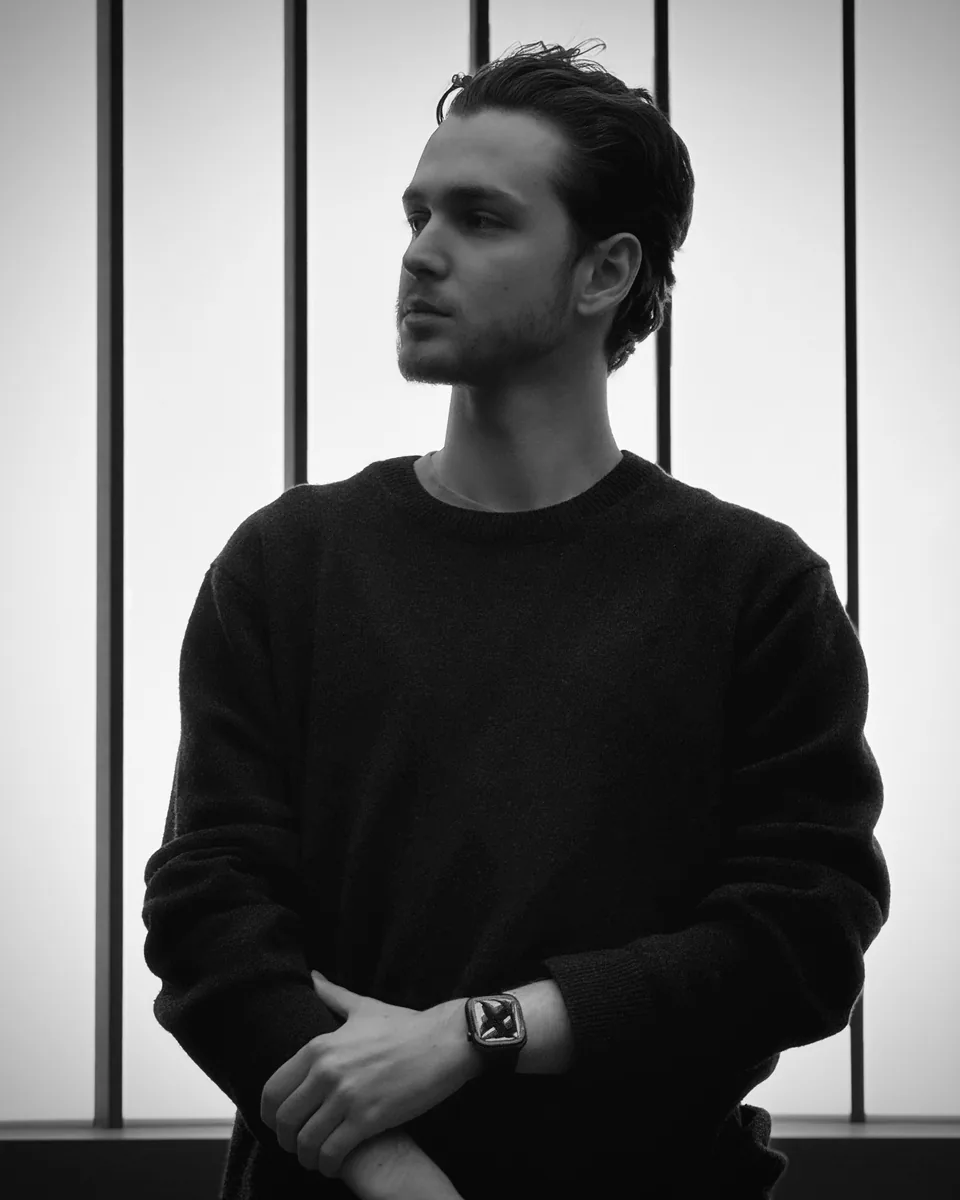
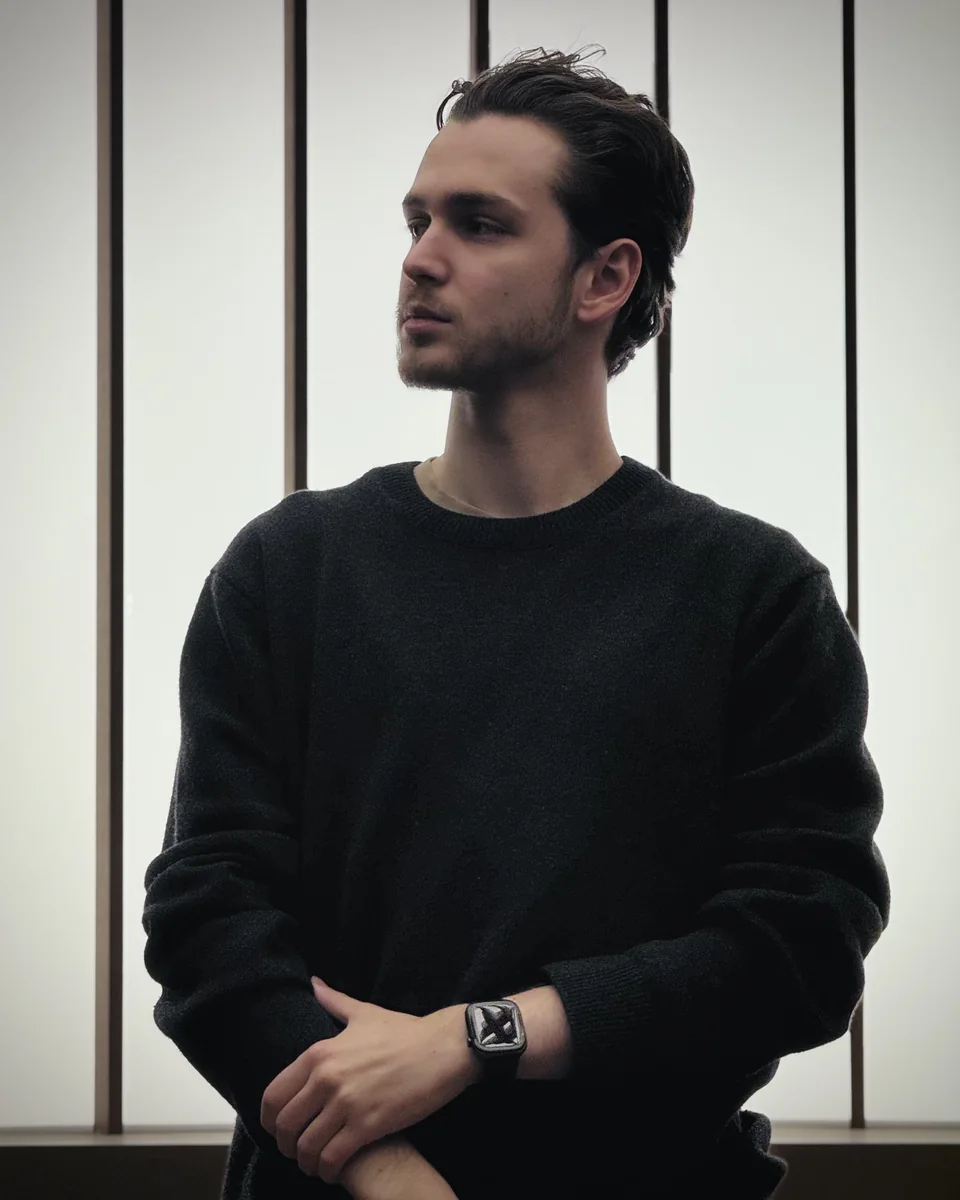
Убран старый блок кейсов, кнопка «Создать новую историю», новое фото, ровнее отступы и светлые зоны
Claude-Session: https://claude.ai/code/session_01AMr5Mjxm6He7vfQReetk6z

diff --git a/index.html b/index.html
@@ -24,7 +24,7 @@
 <link rel="apple-touch-icon" href="assets/img/apple-touch-icon.png">
 <meta name="theme-color" content="#0B1324">
 <link rel="icon" href="assets/img/favicon.svg" type="image/svg+xml">
-<link rel="stylesheet" href="assets/style.css?v=12">
+<link rel="stylesheet" href="assets/style.css?v=14">
 <script>try{if(/[?&]font=2/.test(location.search)){document.documentElement.classList.add("font-v2");var l=document.createElement("link");l.rel="stylesheet";l.href="assets/fonts-v2.css?v=1";document.head.appendChild(l)}}catch(e){}</script>
 <script type="application/ld+json">
 {"@context":"https://schema.org","@graph":[{"@type":"WebSite","@id":"https://emberg.consulting/#website","url":"https://emberg.consulting/","name":"Эмберг.Консалтинг","alternateName":"emberg.consulting","inLanguage":"ru-RU","publisher":{"@id":"https://emberg.consulting/#org"}},{"@type":"WebPage","@id":"https://emberg.consulting/#webpage","url":"https://emberg.consulting/","name":"Построение отдела продаж для малого и среднего бизнеса","isPartOf":{"@id":"https://emberg.consulting/#website"},"about":{"@id":"https://emberg.consulting/#org"},"inLanguage":"ru-RU","dateModified":"2026-10-20"},{"@type":"ProfessionalService","@id":"https://emberg.consulting/#org","name":"Эмберг.Консалтинг","alternateName":"emberg.consulting","legalName":"ИП Манасарян Эмберг Грантович","taxID":"774344096686","description":"Консалтинг по построению отделов продаж для малого и среднего бизнеса: разбор отдела продаж, дорожная карта, регламенты, скрипты, CRM и управление по цифрам","url":"https://emberg.consulting/","logo":"https://emberg.consulting/assets/img/logo.png","image":"https://emberg.consulting/assets/img/og.jpg","email":"emberg.work@mail.ru","founder":{"@id":"https://emberg.consulting/#person"},"areaServed":"RU","priceRange":"9 000-90 000 ₽","knowsAbout":["построение отдела продаж","скрипты продаж","регламенты отдела продаж","внедрение CRM","воронка продаж","мотивация менеджеров по продажам","найм менеджеров по продажам","управление отделом продаж"],"contactPoint":{"@type":"ContactPoint","contactType":"sales","url":"https://t.me/emberg_consulting","email":"emberg.work@mail.ru","availableLanguage":"ru"},"sameAs":["https://t.me/emberg_consulting","https://instagram.com/emberg_consulting"],"hasOfferCatalog":{"@type":"OfferCatalog","name":"Услуги по построению отдела продаж","itemListElement":[{"@type":"Offer","name":"Разбор отдела продаж","description":"Встреча 1,5 часа с Эмбергом Манасаряном: точка А, где теряются деньги, дорожная карта на квартал. Стоимость засчитывается в первую оплату при продолжении работы","price":9000,"priceCurrency":"RUB","url":"https://emberg.consulting/#services","availability":"https://schema.org/InStock","itemOffered":{"@type":"Service","@id":"https://emberg.consulting/#service-audit","name":"Разбор отдела продаж","serviceType":"Аудит отдела продаж","provider":{"@id":"https://emberg.consulting/#org"}}},{"@type":"Offer","name":"Построение отдела продаж своей командой","description":"Записанные лекции и персональный трекер, ваша команда собирает инструменты по методике","priceCurrency":"RUB","price":20000,"priceSpecification":{"@type":"UnitPriceSpecification","price":20000,"priceCurrency":"RUB","unitText":"неделя","referenceQuantity":{"@type":"QuantitativeValue","value":1,"unitCode":"WEE"}},"url":"https://emberg.consulting/#services","availability":"https://schema.org/InStock","itemOffered":{"@type":"Service","name":"Построение отдела продаж своей командой","serviceType":"Построение отдела продаж","provider":{"@id":"https://emberg.consulting/#org"}}},{"@type":"Offer","name":"Построение отдела продаж нашей командой","description":"Методист и профильные специалисты делают инструменты за вас: CRM, скрипты, регламенты, тренинги","priceCurrency":"RUB","price":40000,"priceSpecification":{"@type":"UnitPriceSpecification","price":40000,"priceCurrency":"RUB","unitText":"неделя","referenceQuantity":{"@type":"QuantitativeValue","value":1,"unitCode":"WEE"}},"url":"https://emberg.consulting/#services","availability":"https://schema.org/InStock","itemOffered":{"@type":"Service","name":"Построение отдела продаж нашей командой","serviceType":"Построение отдела продаж под ключ","provider":{"@id":"https://emberg.consulting/#org"}}},{"@type":"Offer","name":"Специальный проект","description":"Эмберг лично ведёт проект и команду, 1 проект одновременно","priceCurrency":"RUB","price":90000,"priceSpecification":{"@type":"UnitPriceSpecification","price":90000,"priceCurrency":"RUB","unitText":"неделя","referenceQuantity":{"@type":"QuantitativeValue","value":1,"unitCode":"WEE"}},"url":"https://emberg.consulting/#services","availability":"https://schema.org/InStock","itemOffered":{"@type":"Service","name":"Специальный проект по построению отдела продаж","serviceType":"Построение отдела продаж под ключ","provider":{"@id":"https://emberg.consulting/#org"}}}]}},{"@type":"Person","@id":"https://emberg.consulting/#person","name":"Эмберг Манасарян","alternateName":"Emberg Manasarian","jobTitle":"Основатель Эмберг.Консалтинг, автор методологии","url":"https://emberg.consulting/#about","image":"https://emberg.consulting/assets/img/emberg.webp","worksFor":{"@id":"https://emberg.consulting/#org"},"knowsAbout":["построение отдела продаж","управление продажами","CRM","скрипты продаж"],"sameAs":["https://t.me/emberg_consulting","https://instagram.com/emberg_consulting"]},{"@type":"FAQPage","@id":"https://emberg.consulting/#faq","mainEntity":[{"@type":"Question","name":"Почему так дорого?","acceptedAnswer":{"@type":"Answer","text":"Сравнивать стоит не с ценой курса, а с тем, во что обходится отдел продаж без системы: заявки, за которые вы уже заплатили маркетингу, уходят без сделки, а знания уходят вместе с сильными сотрудниками. Мы продаём не документ, а ответственность за то, что инструменты будут внедрены и приняты вашей командой\n\nРиск при этом на нашей стороне: прервать проект можно в любой момент и вернуть предоплату за оставшиеся недели. А если бюджет ограничен, начните с формата «Своей командой» за 20 тыс. ₽ в неделю"}},{"@type":"Question","name":"Почему так дёшево?","acceptedAnswer":{"@type":"Answer","text":"Наша цель - научить как можно больше компаний продавать экологично: без давления на клиента, выгорания менеджеров и зависимости от одного сильного продавца. Мы верим, что малый и средний бизнес растёт быстрее, когда у него есть понятная система продаж, и хотим, чтобы она была доступна не только крупным компаниям\n\nНиже цена не за счёт качества. Методику мы отработали на десятке отделов продаж, поэтому не изобретаем инструменты с нуля под каждого клиента, а адаптируем готовые решения под ваш бизнес"}},{"@type":"Question","name":"Вы гарантируете рост выручки?","acceptedAnswer":{"@type":"Answer","text":"Нет, и честно скажем почему: на выручку влияют рынок, маркетинг и ваши решения, а мы их не контролируем. Мы гарантируем другое: дорожная карта будет внедрена целиком. Каждый инструмент вы принимаете на защите. Если инструмент не принят по нашей вине, в форматах «Нашей командой» и «Специальный проект» полностью пересобираем его за неделю бесплатно"}},{"@type":"Question","name":"Мы уже платили консультантам, и ничего не внедрилось. Чем вы отличаетесь?","acceptedAnswer":{"@type":"Answer","text":"Обычно внедрение ломается в трёх местах: инструменты пишут без участия команды, после сдачи документа подрядчик уходит, а внутри не остаётся человека, который за них отвечает. Мы собираем фактуру у менеджеров, не идём дальше, пока этап не работает, и возвращаемся после проекта проверить, что прижилось"}},{"@type":"Question","name":"Сколько занимает построение отдела продаж?","acceptedAnswer":{"@type":"Answer","text":"В среднем 1,5-3 месяца. Точный срок называем после разбора: он зависит от того, что в отделе уже работает, а что придётся строить с нуля"}},{"@type":"Question","name":"Можно ли поставить проект на паузу?","acceptedAnswer":{"@type":"Answer","text":"Да. В формате «Своей командой» можно 1 раз за проект бесплатно взять паузу до 2 недель, в формате «Нашей командой» - 2 раза. В «Специальном проекте» условия паузы обсуждаем индивидуально. На время паузы условия работы сохраняются"}},{"@type":"Question","name":"С какими нишами вы работаете и есть ли у вас опыт в моей?","acceptedAnswer":{"@type":"Answer","text":"Мы работаем с компаниями, где продажа идёт через звонок, встречу или переписку и в отделе есть хотя бы один менеджер. У нас уже есть опыт в производстве и дистрибуции, недвижимости, экспорте авто, IT, онлайн-образовании, B2B-услугах, туризме, розничной торговле и других нишах. Не берём в работу компании, где клиент выбирает только по цене, наличию и срокам\n\nЕсли вашей ниши нет в списке, это не проблема. Отдел продаж в стоматологии и на производстве устроен одинаково: заявка, квалификация, встреча, дожим, повторная продажа. Специфику вашего рынка мы собираем на разборе и в начале построения - интервьюируем вас, менеджеров и клиентов. Поэтому инструменты строятся под ваш бизнес, а не по шаблону"}},{"@type":"Question","name":"Вы приводите клиентов, звоните им, нанимаете менеджеров?","acceptedAnswer":{"@type":"Answer","text":"Нет, мы не продаём за вас: не звоним вашим клиентам, не ведём переписку и не запускаем рекламу. Мы строим систему, в которой это делает ваша команда, и отвечаем за то, что происходит после заявки. Если лидов не хватает, подключаем партнёров по маркетингу или помогаем настроить исходящие продажи силами ваших менеджеров\n\nС наймом то же самое: мы пишем профили должностей, мотивацию и воронку найма, а при необходимости подключаем рекрутера. Так новые люди приходят в готовую систему и быстрее начинают продавать"}},{"@type":"Question","name":"Что будет после окончания проекта?","acceptedAnswer":{"@type":"Answer","text":"У вас остаются регламенты, скрипты и база знаний в Notion и CRM. Они не зависят от конкретных людей. После проекта мы бесплатно возвращаемся на контрольный аудит через 1 месяц, а в форматах «Нашей командой» и «Специальный проект» - ещё и через 3 месяца. Проверяем, что работает, и при необходимости дорабатываем"}},{"@type":"Question","name":"Работаете удалённо?","acceptedAnswer":{"@type":"Answer","text":"Да, все встречи проходят в Zoom"}}]}]}
@@ -145,39 +145,8 @@
   </div>
 </section>
 
-<!-- Кейсы -->
-<section class="section" id="cases">
-  <div class="orb orb-a" style="top:10%;left:auto;right:-240px"></div>
-  <div class="container">
-    <div class="section-head reveal">
-      <h2 class="h-section">Что меняется <span class="accent">на практике</span></h2>
-    </div>
-    <div class="steps cases reveal-stagger">
-      <div class="step step-main case glass glass-hover" data-stage="case-1" tabindex="0" role="button" aria-haspopup="dialog" aria-label="Тест брали все, а платить не хотел никто - подробнее">
-        <span class="tag">LegalTech · B2B SaaS</span>
-        <div class="step-body"><h3 class="h-card">Тест брали все, а платить не хотел никто</h3><ul class="case-metrics"><li><b>2-3</b><span>B2B-контракта в неделю вместо одной продажи за всё время</span></li><li><b>7 дней</b><span>длится тест с критериями успеха вместо бессрочного пилота</span></li><li><b>10-15</b><span>ключевых клиентов на основателе, остальные - у менеджера</span></li></ul></div>
-        <span class="step-more" aria-hidden="true">Что сделали<i></i></span>
-      </div>
-      <div class="step step-main case glass glass-hover" data-stage="case-2" tabindex="0" role="button" aria-haspopup="dialog" aria-label="Больше половины заявок не доходили до звонка - подробнее">
-        <span class="tag">Онлайн-образование · B2C</span>
-        <div class="step-body"><h3 class="h-card">Больше половины заявок не доходили до звонка</h3><ul class="case-metrics"><li><b>46%</b><span>заявок доходили до встречи продажи на старте</span></li><li><b>3 → 2+1</b><span>совместителей заменили 2 менеджера на полный день и чатер</span></li><li><b>1-2 дня</b><span>от встречи до оплаты без единого касания дожима</span></li></ul></div>
-        <span class="step-more" aria-hidden="true">Что сделали<i></i></span>
-      </div>
-      <div class="step step-main case glass glass-hover" data-stage="case-3" tabindex="0" role="button" aria-haspopup="dialog" aria-label="Пришли за активными продажами, а главный риск оказался в другом - подробнее">
-        <span class="tag">Промышленное снабжение · B2B</span>
-        <div class="step-body"><h3 class="h-card">Пришли за активными продажами, а главный риск оказался в другом</h3><ul class="case-metrics"><li><b>60%</b><span>выручки давал один клиент</span></li><li><b>74%</b><span>прироста за год пришлось на него же</span></li><li><b>33 этапа</b><span>цикла сделки оцифровали с точками потерь</span></li></ul></div>
-        <span class="step-more" aria-hidden="true">Что сделали<i></i></span>
-      </div>
-    </div>
-    <template id="stage-case-1"><span class="tag">LegalTech · B2B SaaS</span><h3 class="h-card">Тест брали все, а платить не хотел никто</h3><p class="stage-lbl">Что сделали</p><ul><li>Нашли, где застревают деньги: до теста доходили почти все, до оплаты - почти никто</li><li>Собрали модель продаж и 3 воронки: новые клиенты, продления, отказники</li><li>Пересобрали тест: 7 дней, критерии успеха, созвон на 3-й день и итоговая встреча с тем, кто принимает решение. Цену называем до теста</li><li>Дату итоговой встречи фиксируем прямо на демо - клиент начал так делать в тот же день</li><li>Написали скрипты: секретарь, первый звонок, запуск теста, финальная встреча, возражения</li><li>Выстроили работу с лидами: исходящий трафик, крупные аккаунты, партнёрская и реферальная программы</li><li>Разобрали КП и дали структуру на 2-3 страницы</li></ul><p class="stage-lbl">Ключевые инсайты</p><ul><li>Больше лидов не помогут, если тест отдаёт продукт бесплатно. Сначала чинишь переход от теста к оплате, потом увеличиваешь поток</li><li>Тест не продавал, потому что в него заходили без квалификации и без лица, принимающего решение, без цели и даты решения</li><li>CRM и онбординг сознательно отложили - автоматизировать хаос нет смысла</li></ul><p class="stage-note">Результат - со слов основателя через 2 месяца после старта. На рост повлияли и другие факторы, мы одна из причин, а не единственная</p></template>
-    <template id="stage-case-2"><span class="tag">Онлайн-образование · B2C</span><h3 class="h-card">Больше половины заявок не доходили до звонка</h3><p class="stage-lbl">Что сделали</p><ul><li>Разделили роли: менеджер продаёт только на встрече, чатер ведёт клиента от заявки до оплаты</li><li>Завели единый календарь слотов - чатер сам записывает клиента без передачи «из чата в чат»</li><li>Ввели подтверждение встречи за сутки и за час. Сначала слот, потом материалы</li><li>Сократили прогрев с трёх бесплатных уроков до одного</li><li>Собрали 3 воронки в CRM и убрали лишние поля</li><li>Перестроили мотивацию: фикс за дисциплину и процент за сделки, у чатера - бонус за доведённых до встречи и оплаты</li><li>Провели тайные покупки у 3 конкурентов и собрали структуру встречи, скрипты дожима и возврата</li></ul><p class="stage-lbl">Ключевые инсайты</p><ul><li>Продавец на звонке не должен догонять клиента в переписке. Пока менеджеры отвечали сутками, заявки остывали до встречи</li><li>Квалификация - это не фильтр, а разгрузка. Чатер перестал звать на встречи тех, кто не купит, и у менеджеров освободилось время</li><li>Онбординг, отложенный как «не горит», стоил 2 месяцев на менеджера, который уволился после обучения</li></ul></template>
-    <template id="stage-case-3"><span class="tag">Промышленное снабжение · B2B</span><h3 class="h-card">Пришли за активными продажами, а главный риск оказался в другом</h3><p class="stage-lbl">Что сделали</p><ul><li>Разобрали выгрузки из 1С за 2,5 года и нашли настоящий диагноз - концентрацию выручки</li><li>Поменяли порядок работ: сначала защита ключевых клиентов и маржи, потом активные продажи</li><li>Оцифровали цикл сделки по входящим заявкам, тендерам и прямым продажам</li><li>Спроектировали структуру из 4 блоков: клиентский сервис, активные продажи, тендеры, снабжение</li><li>Описали 8 профилей должностей, 4 воронки и бизнес-процессы с нормативами сроков</li><li>Внедрили ежедневный план-факт - он прижился и работает без нас</li><li>После паузы на внедрение компания вернулась на следующий этап - запуск активных продаж</li></ul><p class="stage-lbl">Ключевые инсайты</p><ul><li>Клиент приходит с диагнозом «нам нужны продажники», а данные показывают другой. Ценность не в списке задач, а в правильном порядке</li><li>Когда почти каждая заявка уникальна, узкое место не в навыке продажи, а в просчёте. Охотник в такой системе утонет в расчётах</li><li>Главная метрика проекта - доля крупнейшего клиента: снизить её с 60% до 40% и сохранить маржу</li></ul></template>
-    <div class="cta-row reveal"><a class="btn btn-primary" data-cta="C18" href="https://t.me/emberg_consulting">Разобрать наш отдел продаж <span class="arr">→</span></a></div>
-  </div>
-</section>
-
 <!-- Истории проектов -->
-<section class="section" id="stories">
+<section class="section section-light" id="stories">
   <div class="container">
     <div class="section-head reveal">
       <h2 class="h-section">Каждый проект - <span class="accent">новая история</span></h2>
@@ -187,6 +156,7 @@
       <button type="button" class="story-row glass" data-story="2" aria-haspopup="dialog"><span class="story-num">02</span><span class="story-txt"><span class="story-niche">Онлайн-школа</span><span class="story-title">Как проводить меньше встреч и закрывать больше продаж</span></span><span class="story-arr" aria-hidden="true"></span></button>
       <button type="button" class="story-row glass" data-story="3" aria-haspopup="dialog"><span class="story-num">03</span><span class="story-txt"><span class="story-niche">Промышленное снабжение</span><span class="story-title">Проблема не в МОПах: почему 3 продажника не прижились</span></span><span class="story-arr" aria-hidden="true"></span></button>
     </div>
+    <div class="cta-row reveal"><a class="btn btn-primary" data-cta="C18" href="https://t.me/emberg_consulting">Создать новую историю <span class="arr">→</span></a></div>
     <template id="story-1"><p class="story-eyebrow">Кейс 01 · Сервис для юристов</p><h3 class="story-h">Быстрый старт: от 0 до 3 B2B-контрактов в неделю</h3><dl class="story-facts"><div><dt>Кто</dt><dd>Стартап, ИИ-система для юристов, B2B-подписка</dd></div><div><dt>Менеджеров</dt><dd>0, продаёт сам основатель</dd></div><div><dt>Выручка</dt><dd>0 ₽ / год</dd></div><div><dt>Срок</dt><dd>7 недель</dd></div></dl><div class="story-task"><p class="stage-lbl">Задача</p><p>Превратить бесплатный тест в оплату и снять продажи с основателя</p></div><div class="story-cols"><div class="story-col"><p class="stage-lbl">Было</p><ul><li>Одна продажа за всё время</li><li>До бесплатного теста доходили почти все, до оплаты - почти никто</li><li>95% продаж на основателе, учёт сделок - папки со скриншотами</li></ul></div><div class="story-col"><p class="stage-lbl">Сделали</p><ul><li>Пересобрали тестовый период: цель теста, критерии успеха, промежуточный созвон и итоговая встреча с тем, кто принимает решение</li><li>Ввели правило фиксировать дату итоговой встречи ещё на демо - основатель применил его в тот же день</li><li>Собрали 3 воронки (новые клиенты, продления, отказники) и скрипты на каждый этап сделки</li><li>Выстроили систему работы с лидами из 7 каналов, включая исходящий трафик и партнёрскую программу</li><li>Провели аудит КП и дали новую структуру на 2-3 страницы</li></ul></div><div class="story-col story-col-got"><p class="stage-lbl">Стало</p><ul><li>Тест заканчивается встречей с решением, а не тишиной: несколько недель подряд основатель идёт на итоговые встречи с хорошей обратной связью</li><li>Продажи разделены: основатель ведёт 10-15 крупных клиентов, средних - менеджер</li><li>Тёплым клиентам тест запускают сразу через чат, без ожидания отдельной встречи</li><li>Сделки ведутся в таблице по этапам со следующим шагом и контактным лицом вместо скриншотов</li><li>КП собирается с разбивкой цены, блоком безопасности и планом внедрения</li></ul></div></div></template>
     <template id="story-2"><p class="story-eyebrow">Кейс 02 · Онлайн-школа</p><h3 class="story-h">Как проводить меньше встреч и закрывать больше продаж</h3><dl class="story-facts"><div><dt>Кто</dt><dd>Онлайн-образование, B2C</dd></div><div><dt>Менеджеров</dt><dd>3 менеджера + 1 менеджер на переписке</dd></div><div><dt>Выручка</dt><dd>45 млн ₽ / год</dd></div><div><dt>Срок</dt><dd>6 недель: неделя диагностики и 5 недель внедрения</dd></div></dl><div class="story-task"><p class="stage-lbl">Задача</p><p>Довести до звонка больше заявок и сделать так, чтобы отдел работал без микроконтроля руководителя</p></div><div class="story-cols"><div class="story-col"><p class="stage-lbl">Было</p><ul><li>До звонка доходило 46% заявок: в июне из 138 лидов - 64 звонка</li><li>Все менеджеры совмещали продажи с основной работой, ближайший слот для клиента - через 2-3 дня</li><li>В переписке менеджеры отвечали до суток, дожимал клиентов в основном руководитель</li></ul></div><div class="story-col"><p class="stage-lbl">Сделали</p><ul><li>Разделили роли: менеджер - только звонок, чатер - клиент от заявки до оплаты, включая дожим</li><li>Завели единый календарь слотов и своими силами перенастроили AmoCRM клиента: 3 воронки, правила переходов, поля карточки, автоматизации</li><li>Ввели подтверждение звонка за сутки и за час, сократили прогрев с трёх уроков до одного</li><li>Пересобрали мотивацию: менеджеру - за звонок, чатеру - бонус за доведённых до звонка и до оплаты</li><li>Провели тайные покупки у 3 конкурентов, на их основе собрали структуру звонка и скрипты дожима</li></ul></div><div class="story-col story-col-got"><p class="stage-lbl">Стало</p><ul><li>Дожим снят с руководителя: его ведёт чатер, первые клиенты после передачи оплатили через 1-2 дня без единого касания</li><li>Процент менеджера с продажи снизился с 5-9% до 3,5-4%</li><li>Чатер отсекает нецелевых до звонка - менеджеры тратят время только на тех, кто может купить</li><li>Запись на слот автоматически двигает сделку в CRM, лишние поля убраны</li></ul></div></div></template>
     <template id="story-3"><p class="story-eyebrow">Кейс 03 · Промышленное снабжение</p><h3 class="story-h">Проблема не в МОПах: почему 3 продажника не прижились</h3><dl class="story-facts"><div><dt>Кто</dt><dd>B2B-снабжение крупных заводов</dd></div><div><dt>Менеджеров</dt><dd>3 менеджера</dd></div><div><dt>Выручка</dt><dd>183 млн ₽ / год</dd></div><div><dt>Срок</dt><dd>12 недель</dd></div></dl><div class="story-task"><p class="stage-lbl">Задача</p><p>Подготовить компанию к запуску активных продаж так, чтобы новый продавец прижился</p></div><div class="story-cols"><div class="story-col"><p class="stage-lbl">Было</p><ul><li>3 попытки нанять менеджера активных продаж провалились</li><li>Заявки и КП не фиксировались, конверсия не считалась, план продаж не формировался</li><li>Сотрудники совмещали по 2-3 роли, знания о клиентах - в личной почте и папках на компьютерах</li></ul></div><div class="story-col"><p class="stage-lbl">Сделали</p><ul><li>Провели аудит: выгрузки из 1С за 2,5 года, интервью с командой, слепки рабочего дня</li><li>Оцифровали цикл сделки по входящим заявкам, тендерам и прямым продажам</li><li>Описали 8 профилей должностей, 4 воронки и 27 бизнес-процессов с нормативами сроков</li><li>Внедрили ежедневный план-факт: защитили его с командой и отработали возражения</li></ul></div><div class="story-col story-col-got"><p class="stage-lbl">Стало</p><ul><li>Собственники каждый день видят заявки и КП по каждому заводу вместо «никак»</li><li>Зафиксированы нормативы: первичный ответ на заявку - 2 рабочих часа, КП - 3 рабочих дня</li><li>6 бизнес-процессов работают в поле</li><li>Компания вернулась на следующий этап и нанимает руководителя отдела продаж, менеджера активных продаж и снабженца в готовую систему</li></ul></div></div></template>
@@ -287,7 +257,7 @@
   <div class="orb orb-b" style="left:auto;right:-200px"></div>
   <div class="container">
     <div class="about">
-      <div class="about-photo glass glass-xl reveal"><img src="assets/img/emberg.webp?v=2" alt="Эмберг Манасарян" width="960" height="1200" loading="lazy"><div class="hero-shine"></div></div>
+      <div class="about-photo glass glass-xl reveal"><img src="assets/img/emberg.webp?v=3" alt="Эмберг Манасарян" width="960" height="1200" loading="lazy"><div class="hero-shine"></div></div>
       <div class="about-text reveal">
         <h2 class="h-section">Эмберг <span class="accent">Манасарян</span></h2>
         <p class="about-role">Основатель Эмберг.Консалтинг, автор методологии</p>
@@ -314,7 +284,7 @@
 <!-- Финальный экран -->
 <section class="section" id="contact">
   <div class="container">
-    <div class="final glass glass-xl reveal">
+    <div class="final final-light glass glass-xl reveal">
       <div class="final-glow"></div>
       <h2 class="h-section">Построим план на квартал за <span class="accent">1,5 часа</span></h2>
       <p class="lead">Разберём точку А, выявим зоны роста и соберём индивидуальную дорожную карту развития отдела продаж</p>
@@ -325,7 +295,7 @@
 </section>
 
 <!-- Частые вопросы -->
-<section class="section" id="faq">
+<section class="section section-light section-light-r" id="faq">
   <div class="container">
     <div class="section-head reveal">
       <h2 class="h-section">Отвечаем <span class="accent">честно</span></h2>
@@ -360,8 +330,7 @@
         <ul>
           <li><a href="#why">Почему мы</a></li>
           <li><a href="#how">Как устроена работа</a></li>
-          <li><a href="#cases">Кейсы</a></li>
-          <li><a href="#stories">Истории проектов</a></li>
+          <li><a href="#stories">Кейсы</a></li>
           <li><a href="#services">Услуги</a></li>
           <li><a href="#about">Эмберг Манасарян</a></li>
           <li><a href="#contact">Связь</a></li>

diff --git a/assets/style.css b/assets/style.css
@@ -568,13 +568,6 @@ body.stage-open{overflow:hidden}
 @media (prefers-reduced-motion:reduce){.hero .reveal{animation:none}}
 
 
-/* Cases - карточки с переворотом, как этапы */
-.case .tag{margin-bottom:2px}
-.case-metrics{display:grid;margin-top:6px}
-.case-metrics li{display:grid;gap:4px;padding:12px 0;border-top:1px solid rgba(255,255,255,.1)}
-.case-metrics li:last-child{padding-bottom:0}
-.case-metrics b{font-size:clamp(26px,2.6vw,32px);font-weight:800;letter-spacing:-.035em;line-height:1.05;color:var(--white)}
-.case-metrics span{font-size:14px;line-height:1.45;color:var(--text-2)}
 .stage-back-inner .tag{margin-bottom:14px}
 
 
@@ -617,3 +610,22 @@ body.stage-open{overflow:hidden}
 .story-col .stage-lbl{margin-top:0}
 @media (max-width:719px){.story-panel{width:92vw}.story-row{padding:18px;gap:14px}.story-num{display:none}}
 body.story-open{overflow:hidden}
+
+
+/* Ритм секций и светлые зоны (23.10) */
+.section{padding:clamp(64px,7.5vw,112px) 0}
+#contact{padding:clamp(32px,4vw,56px) 0;overflow:visible}
+.hero::after{content:"";position:absolute;left:0;right:0;bottom:0;height:clamp(120px,16vw,220px);background:linear-gradient(180deg,rgba(11,19,36,0),var(--bg));pointer-events:none;z-index:-1}
+.section-light::before{content:"";position:absolute;inset:0;z-index:-1;pointer-events:none;background:radial-gradient(ellipse 46% 30% at 16% 34%,rgba(143,166,200,.16),rgba(143,166,200,0) 72%)}
+.section-light-r::before{background:radial-gradient(ellipse 46% 26% at 84% 30%,rgba(143,166,200,.14),rgba(143,166,200,0) 72%)}
+/* финальный экран - светлая карточка */
+.final-light{background:linear-gradient(150deg,#F6F8FB 0%,#DCE4EE 50%,#B4C4DA 100%);border-color:rgba(255,255,255,.6);box-shadow:0 40px 100px -40px rgba(143,166,200,.55),0 1px 0 rgba(255,255,255,.9) inset;color:var(--navy)}
+.final-light .final-glow{background:#FFFFFF;opacity:.7;top:-40%}
+.final-light .h-section{color:var(--navy)}
+.final-light .accent{background:linear-gradient(120deg,#1B2A4A 0%,#3C5A8C 60%,#5F7EB0 100%);-webkit-background-clip:text;background-clip:text;color:transparent}
+.final-light .lead{color:rgba(27,42,74,.78)}
+.final-light .btn-primary{background:var(--navy);color:var(--white);box-shadow:0 14px 34px -12px rgba(27,42,74,.6),0 0 0 1px rgba(27,42,74,.2) inset}
+.final-light .btn-primary:hover{box-shadow:0 20px 40px -12px rgba(27,42,74,.7)}
+.final-light .alt{color:rgba(27,42,74,.6)}
+.final-light .alt a{color:var(--navy)}
+.final-light .alt a:hover{color:#3C5A8C}
